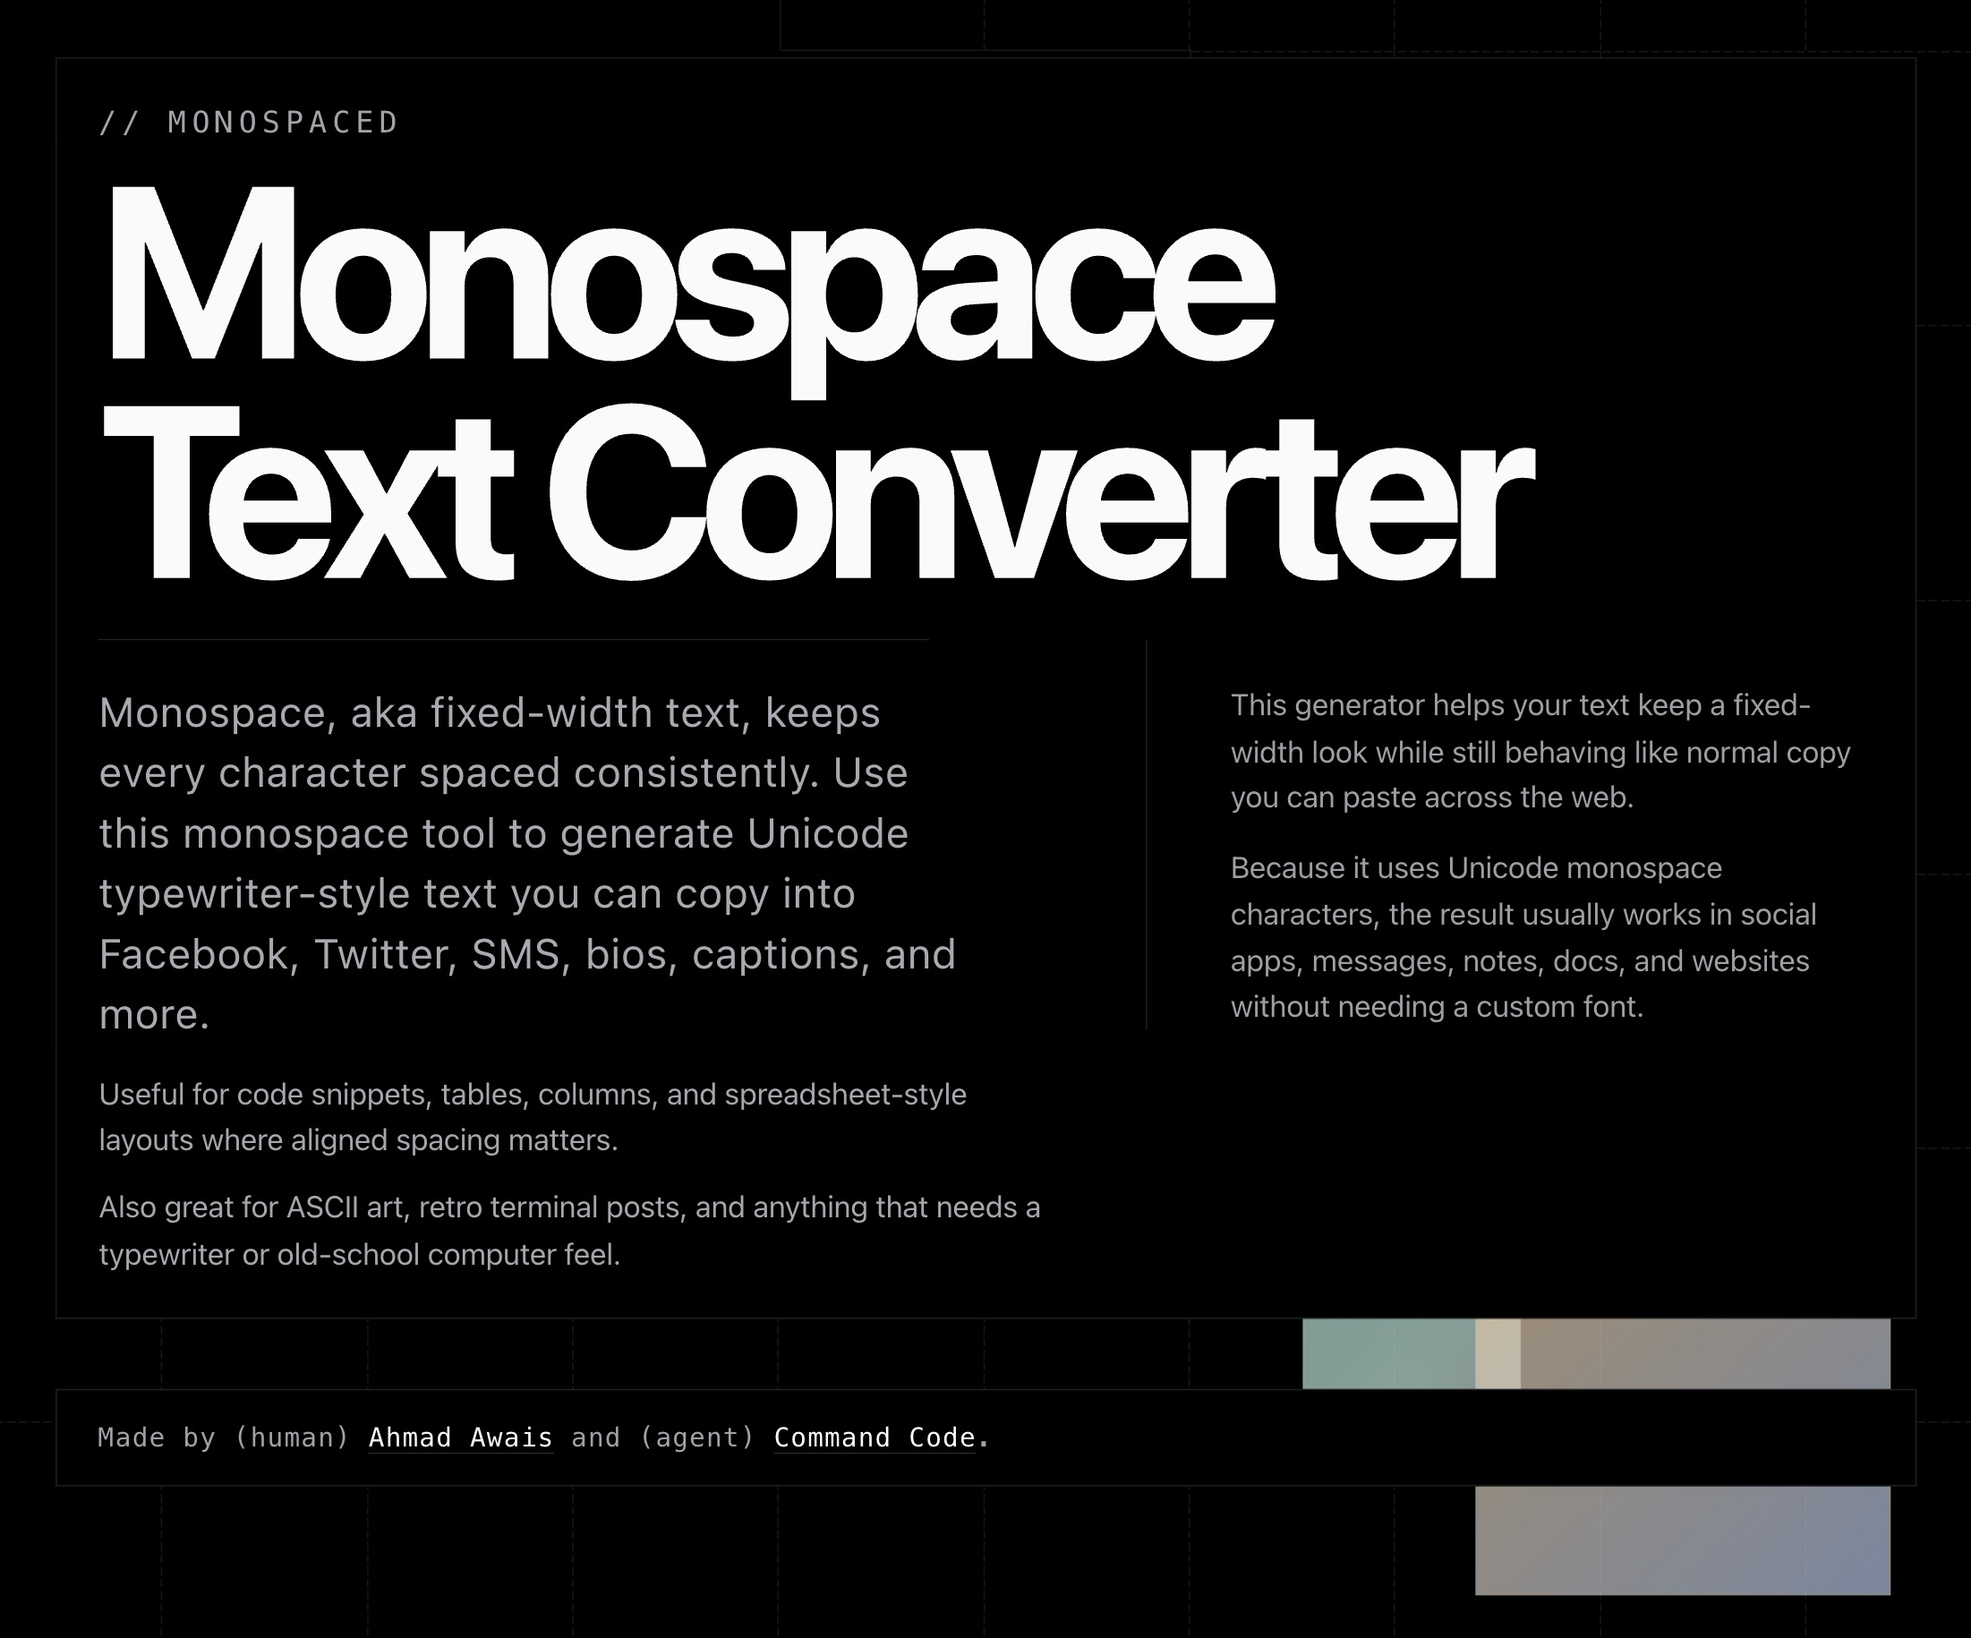
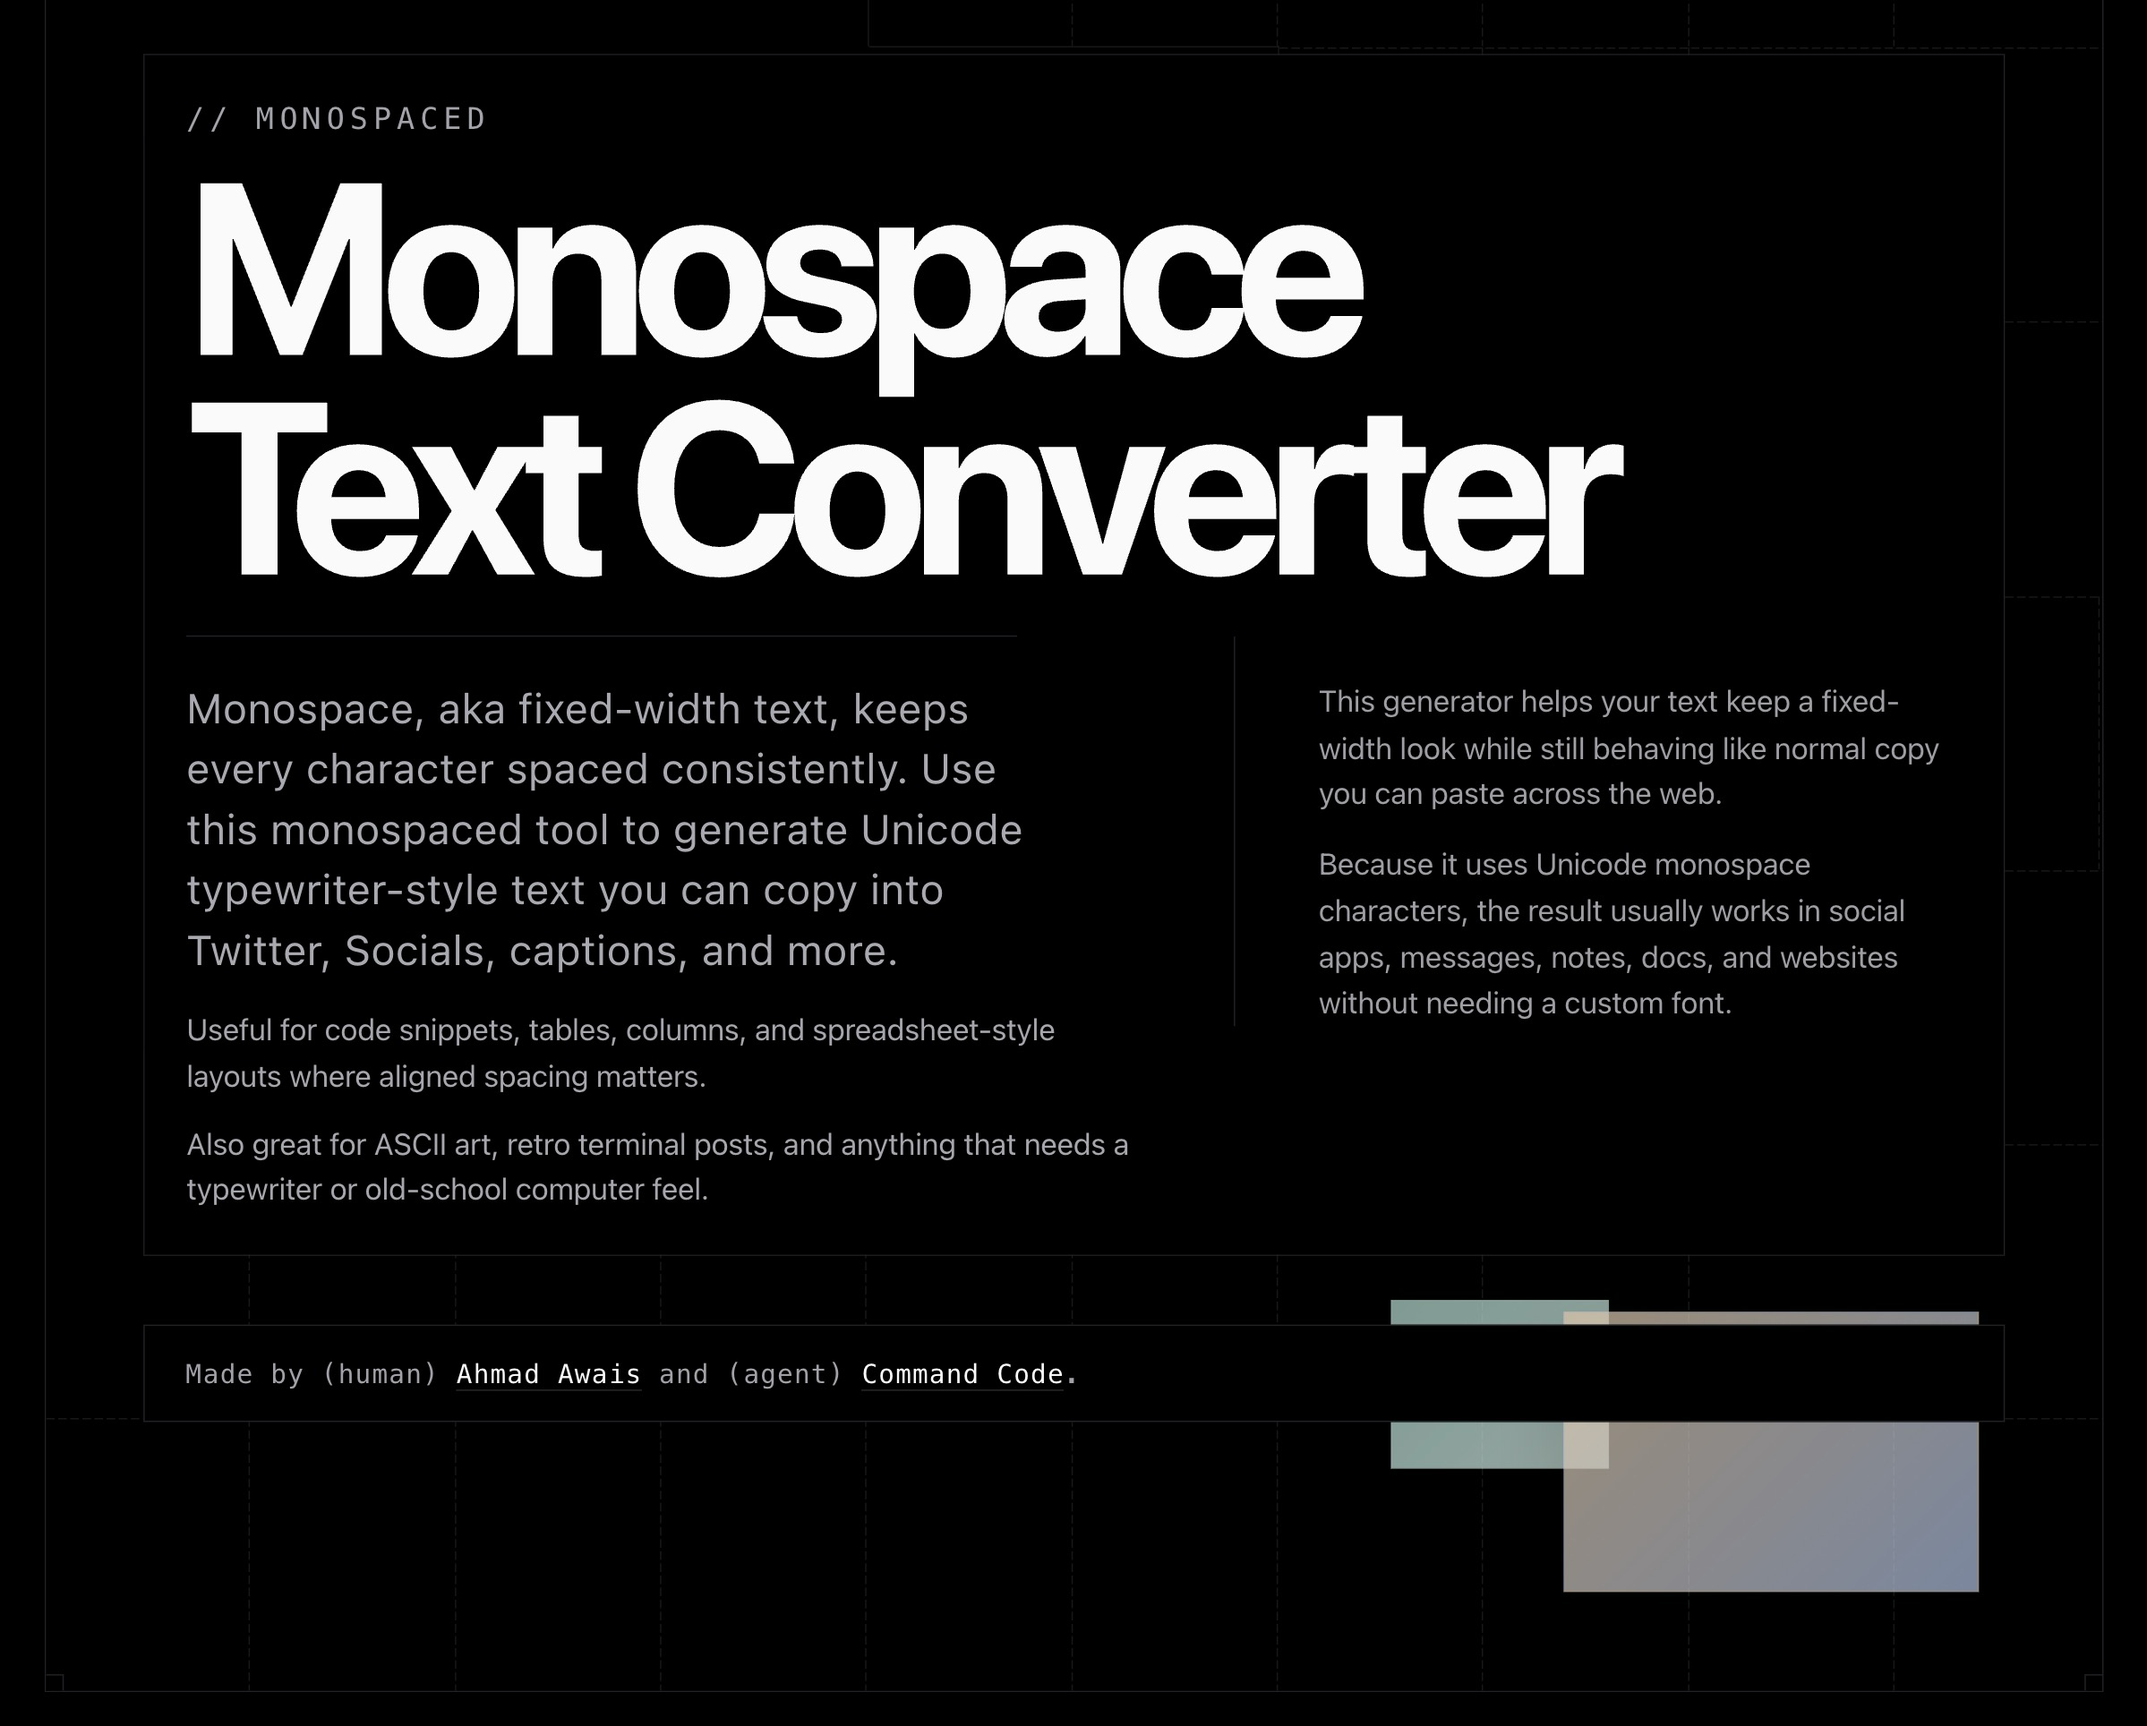
feat: iamge

diff --git a/index.html b/index.html
@@ -887,7 +887,7 @@
 
             <div class="intro-bottom">
               <div class="intro-lead-block">
-                <p class="lead">Monospace, aka fixed-width text, keeps every character spaced consistently. Use this monospace tool to generate Unicode typewriter-style text you can copy into Facebook, Twitter, SMS, bios, captions, and more.</p>
+                <p class="lead">Monospace, aka fixed-width text, keeps every character spaced consistently. Use this monospaced tool to generate Unicode typewriter-style text you can copy into Twitter, Socials, captions, and more.</p>
                 <div class="intro-facts">
                   <p class="intro-fact">Useful for code snippets, tables, columns, and spreadsheet-style layouts where aligned spacing matters.</p>
                   <p class="intro-fact">Also great for ASCII art, retro terminal posts, and anything that needs a typewriter or old-school computer feel.</p>
